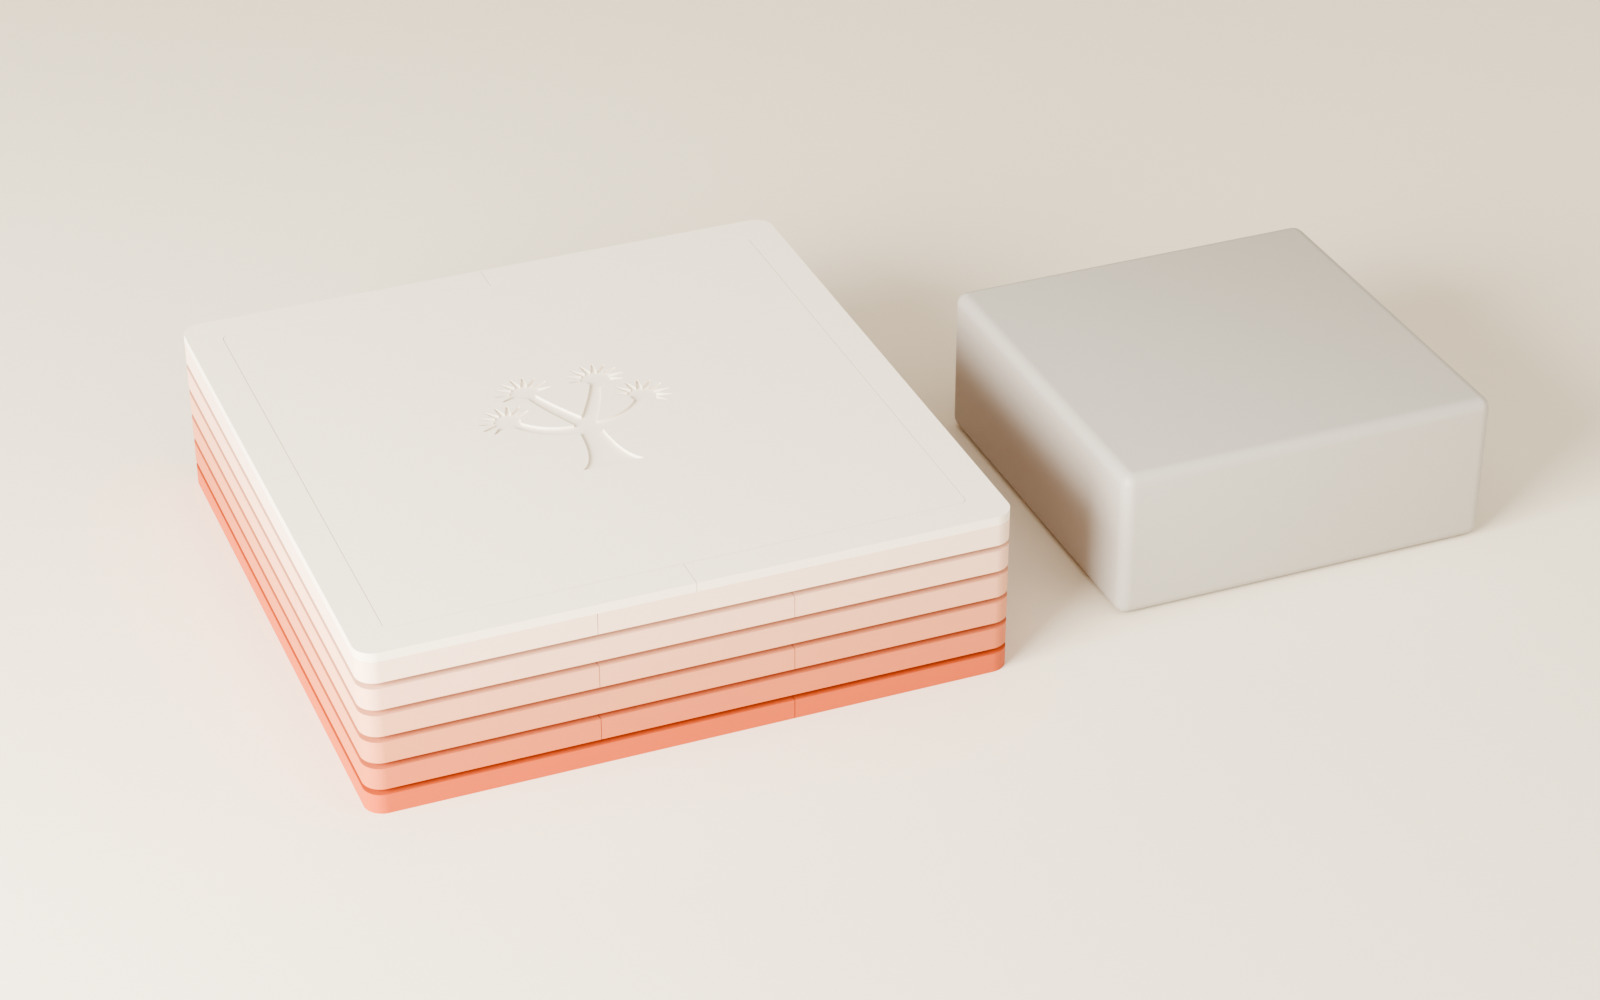
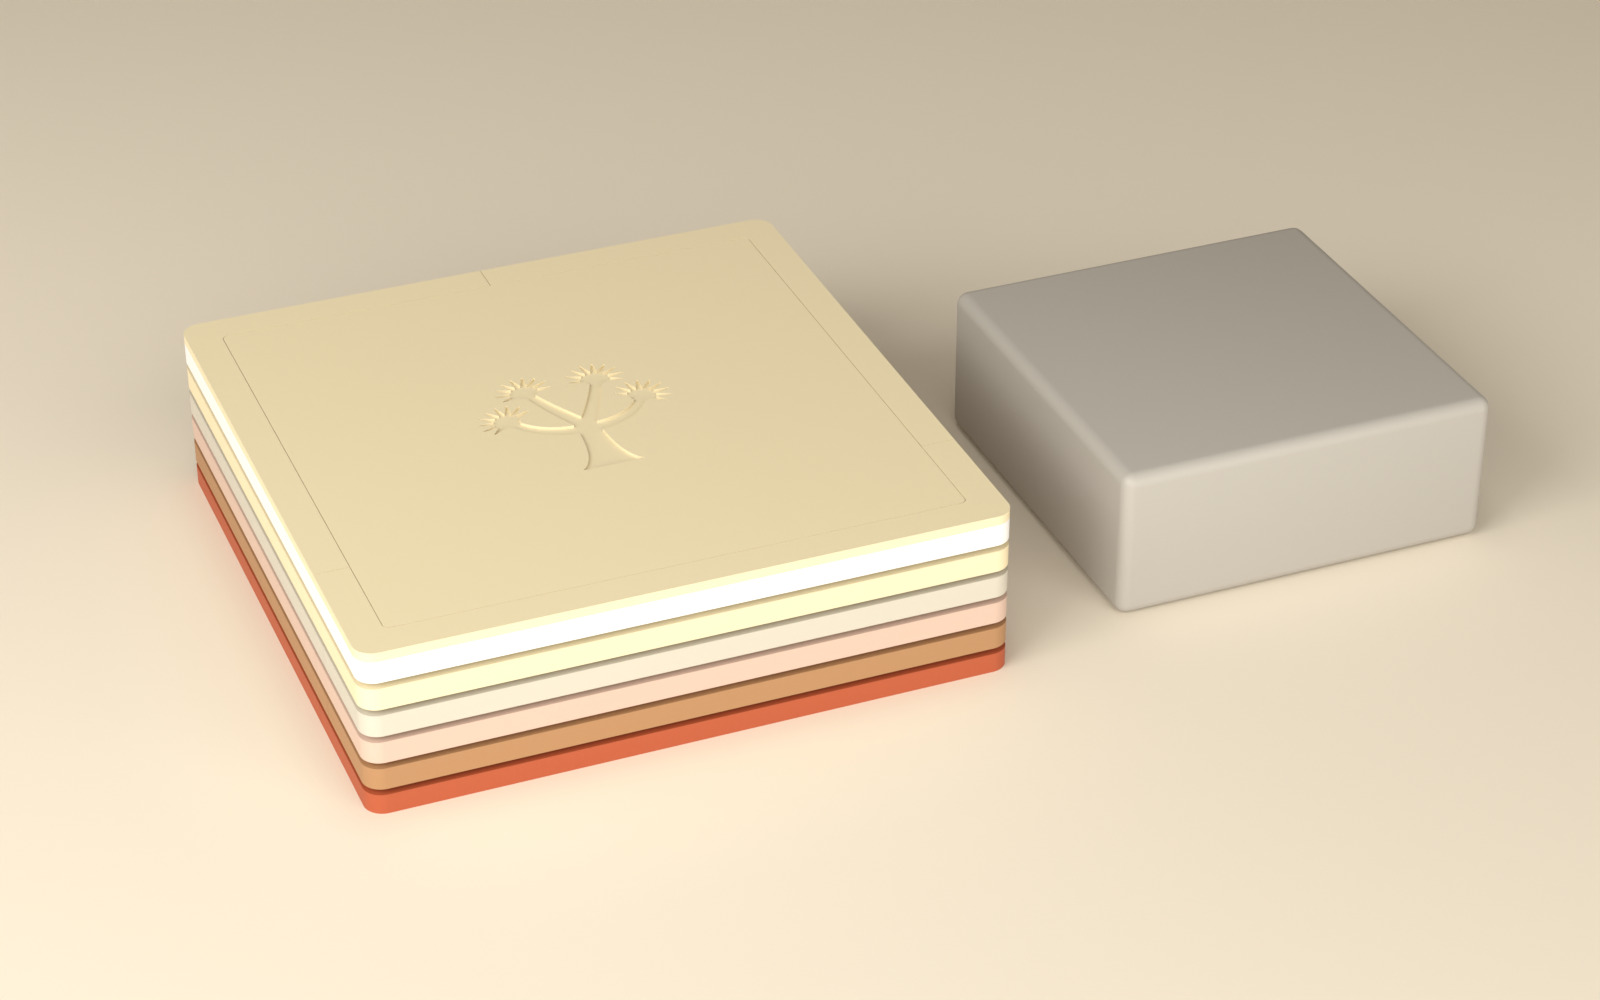
Strata Kit round 4: renders from the new CAD (Standard view, real port cutouts); colour check still failing on ring 0, cap and rear strip

diff --git a/docs/hardware/render_strata.py b/docs/hardware/render_strata.py
@@ -62,8 +62,8 @@ def mix(a, b, t): return tuple(round(a[i] + (b[i] - a[i]) * t) for i in range(3)
 bpy.ops.wm.read_factory_settings(use_empty=True)
 sc = bpy.context.scene
 sc.render.engine = "CYCLES"
-sc.cycles.samples = 16 if PREVIEW else 256
-SAMPLES_REAR = 16 if PREVIEW else 640                      # the rear window reveal shows denoiser smudge below this
+sc.cycles.samples = 16 if PREVIEW else int(os.environ.get("SAMPLES", 256))
+SAMPLES_REAR = 16 if PREVIEW else int(os.environ.get("SAMPLES_REAR", 640))                      # the rear window reveal shows denoiser smudge below this
 sc.cycles.use_denoising = True
 sc.cycles.max_bounces = 6
 sc.render.resolution_x, sc.render.resolution_y, sc.render.resolution_percentage = W, H, 100
@@ -211,9 +211,9 @@ def shoot(name, az, el, dist, lens, target, lights, ev=0.0, samples=None, pts=No
     bpy.ops.render.render(write_still=True)
 
 def env(k, v): return float(os.environ.get(k, v))
-LK_H, LK_R, LK_T = env("LK_H", 0.42), env("LK_R", 0.42), env("LK_T", 0.42)     # light scale per shot, exposure stays at 0 under the Standard transform
-WALL_K = env("WALL_K", 0.9)                                    # back-wall light: low enough that the black rear plate stops mirroring the backdrop
-GRD_K = env("GRD_K", 1.1)
+LK_H, LK_R, LK_T = env("LK_H", 0.4), env("LK_R", 0.42), env("LK_T", 0.42)     # light scale per shot, exposure stays at 0 under the Standard transform
+WALL_K = env("WALL_K", 0.6)                                    # back-wall light: low enough that the black rear plate stops mirroring the backdrop
+GRD_K = env("GRD_K", 0.5)
 ONLY = os.environ.get("STRATA_ONLY")                          # render just one view, e.g. STRATA_ONLY=hero
 hero_lights = [("key", (-0.9, -0.45, 0.85), 0.7, 22 * LK_H), ("fill", (0.9, -0.6, 0.5), 1.2, 3.5 * LK_H),
                ("camleft", (-0.94, -0.03, 0.34), 0.9, 7 * LK_H),                    # weak fill from camera-left at 20 deg elevation, both trunk walls catch a line
